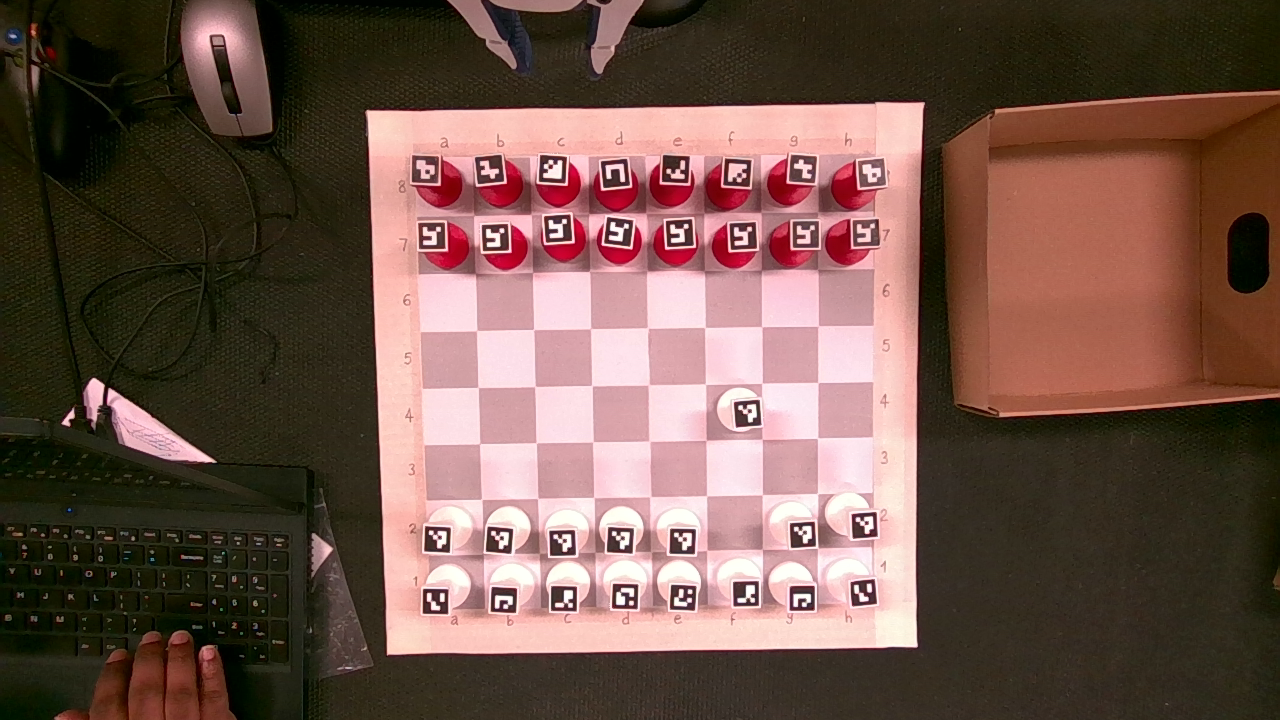
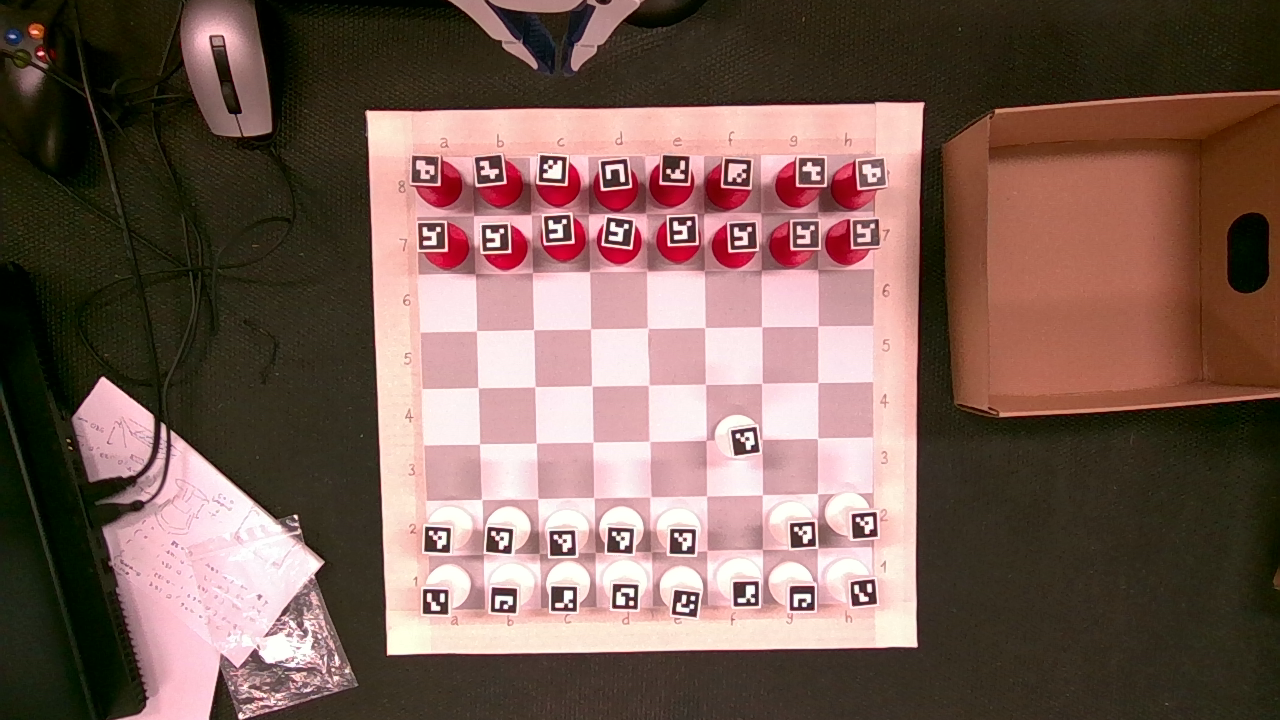
bug fix when human player did a half of the movement

diff --git a/return_move.py b/return_move.py
@@ -44,7 +44,9 @@ def find_chess_move(initial_board, final_board,castling_availability):
                     capture=True
                     end_pos = (i, j)
 
-    print(to_chess_notation(end_pos[0], end_pos[1]))
+    if end_pos==None:
+        return None,False,castling_availability
+
     for i in range(8):
         for j in range(8):
             if initial_board[i][j] != final_board[i][j]:
@@ -52,11 +54,11 @@ def find_chess_move(initial_board, final_board,castling_availability):
                     start_pos = (i, j)
 
 
-    print(to_chess_notation(start_pos[0], start_pos[1]))
     # Convert to chess notation
     if start_pos and end_pos:
         start_square = to_chess_notation(start_pos[0], start_pos[1])
         end_square = to_chess_notation(end_pos[0], end_pos[1])
+        print(start_square+end_square)
         return start_square + end_square,capture,castling_availability
     else:
         return None,False,castling_availability

diff --git a/game.py b/game.py
@@ -140,7 +140,6 @@ with utilities.DeviceConnection.createTcpConnection(args) as router:
         if human_move==None:
             print("Move did not Capture. Try again")
             continue
-        
         print("human move: ", human_move)
 
         print('castling availability: '+str(castling_availability))
